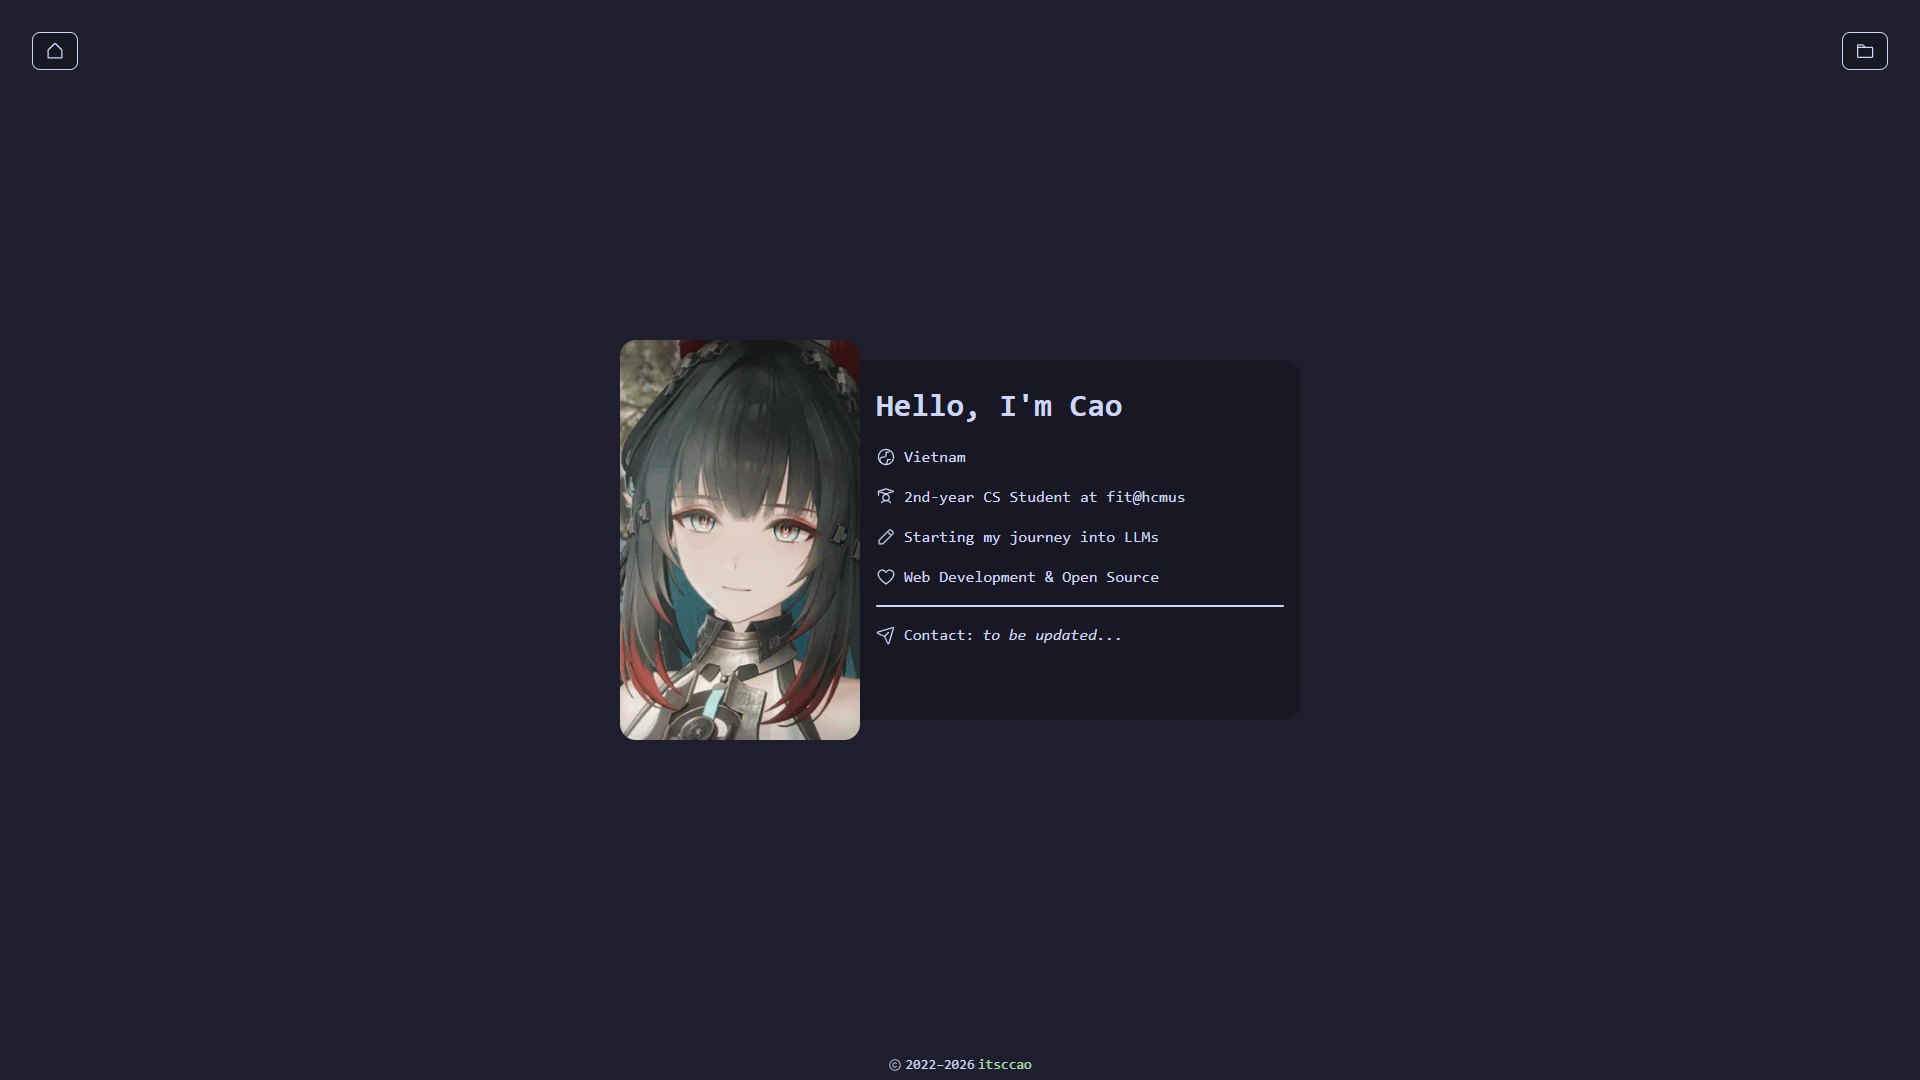
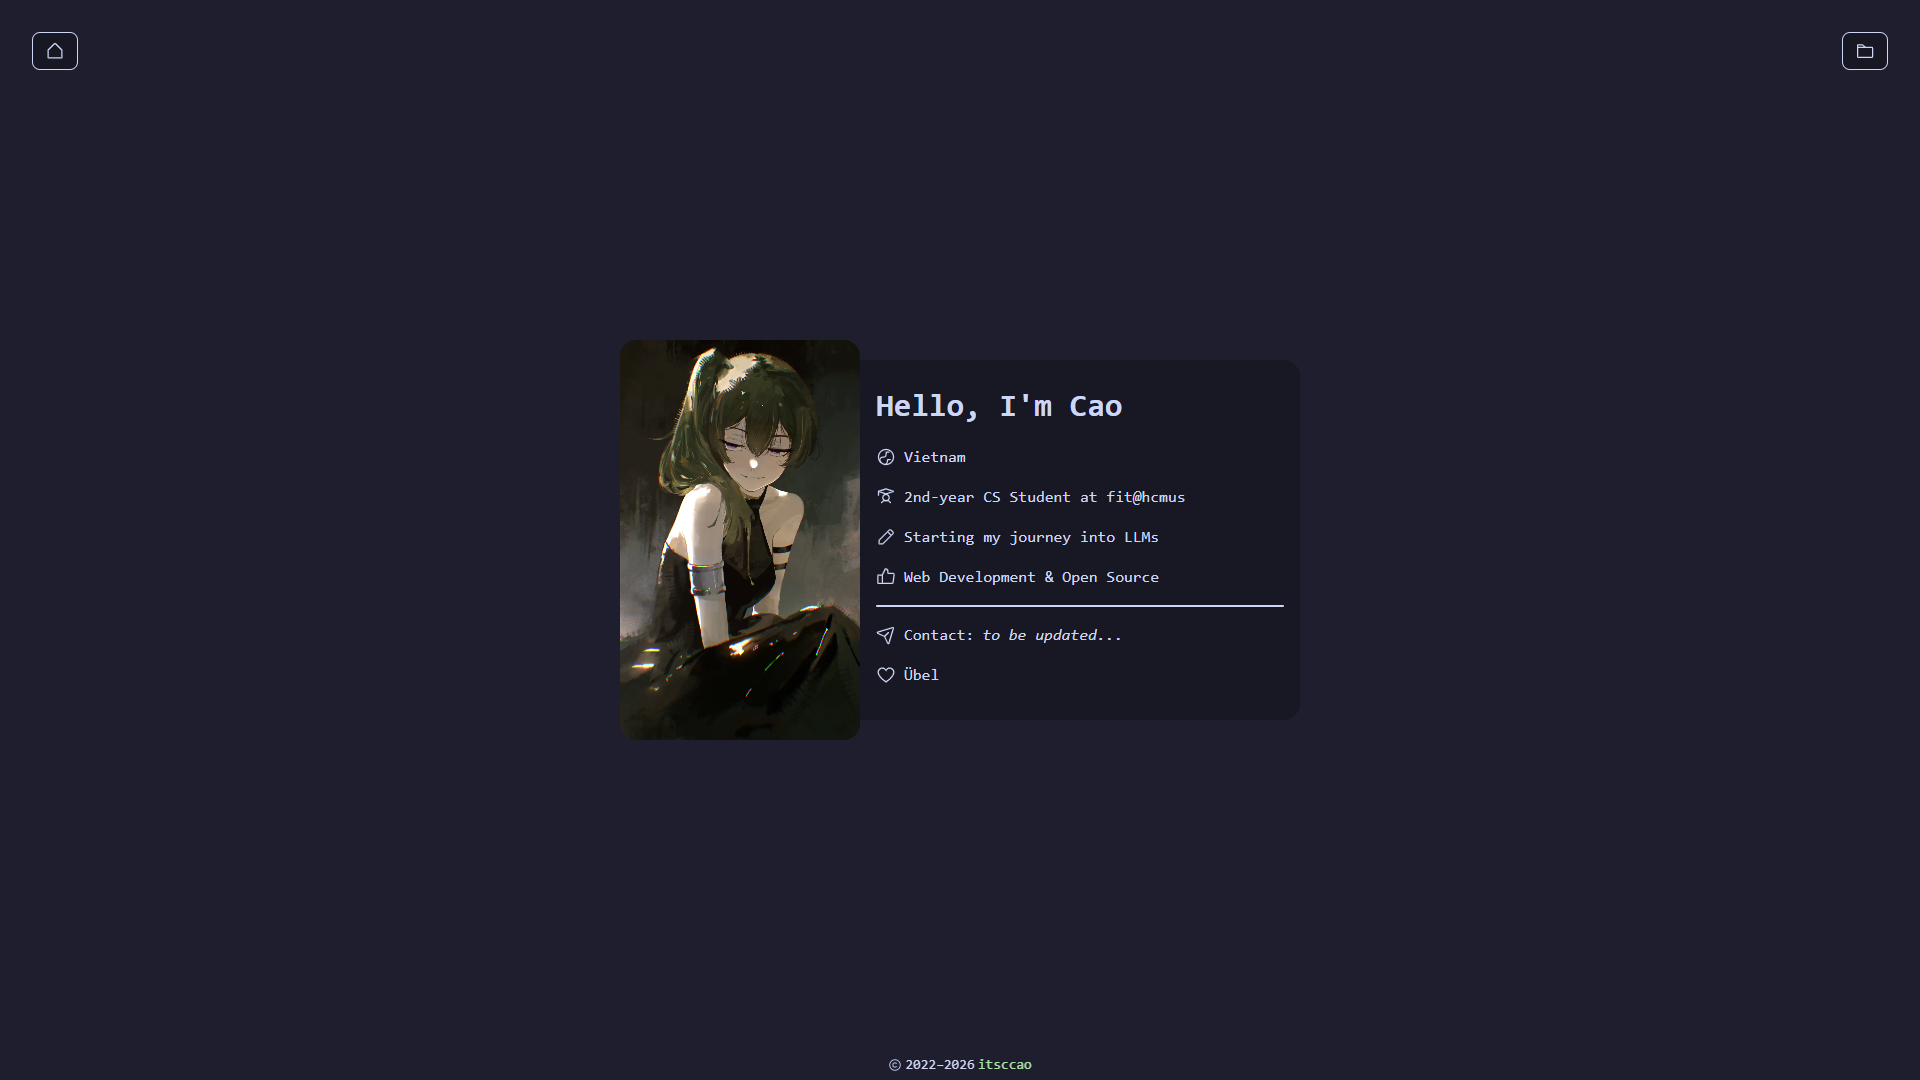
.

Changed region(s): [[0.3125, 0.3056, 0.5, 0.7028]]

diff --git a/public/index.html b/public/index.html
@@ -138,7 +138,8 @@
                     <p class="index-p"> 
                         <svg xmlns="http://www.w3.org/2000/svg" viewBox="0 0 256 256" width="20" height="20">
                             <rect width="256" height="256" fill="none"/>
-                            <path d="M128,216S28,160,28,92A52,52,0,0,1,128,72a52,52,0,0,1,100,20C228,160,128,216,128,216Z" fill="none" stroke="currentColor" stroke-linecap="round" stroke-linejoin="round" stroke-width="16"/>
+                            <path d="M32,104H80a0,0,0,0,1,0,0V208a0,0,0,0,1,0,0H32a8,8,0,0,1-8-8V112A8,8,0,0,1,32,104Z" fill="none" stroke="currentColor" stroke-linecap="round" stroke-linejoin="round" stroke-width="16"/>
+                            <path d="M80,104l40-80a32,32,0,0,1,32,32V80h64a16,16,0,0,1,15.87,18l-12,96A16,16,0,0,1,204,208H80" fill="none" stroke="currentColor" stroke-linecap="round" stroke-linejoin="round" stroke-width="16"/>
                         </svg>
                         Web Development & Open Source
                     </p>
@@ -151,6 +152,13 @@
                             <path d="M223.69,42.18a8,8,0,0,0-9.87-9.87l-192,58.22a8,8,0,0,0-1.25,14.93L108,148l42.54,87.42a8,8,0,0,0,14.93-1.25Z" fill="none" stroke="currentColor" stroke-linecap="round" stroke-linejoin="round" stroke-width="16"/>
                         </svg>
                         Contact: <i>to be updated...</i>
+                    </p>
+                    <p class="index-p">
+                        <svg xmlns="http://www.w3.org/2000/svg" viewBox="0 0 256 256" width="20" height="20">
+                            <rect width="256" height="256" fill="none"/>
+                            <path d="M128,216S28,160,28,92A52,52,0,0,1,128,72a52,52,0,0,1,100,20C228,160,128,216,128,216Z" fill="none" stroke="currentColor" stroke-linecap="round" stroke-linejoin="round" stroke-width="16"/>
+                        </svg>
+                        Übel
                     </p>
                 </div>
             </div>

diff --git a/themes/july/layouts/index.html b/themes/july/layouts/index.html
@@ -49,7 +49,8 @@
                     <p class="index-p"> 
                         <svg xmlns="http://www.w3.org/2000/svg" viewBox="0 0 256 256" width="20" height="20">
                             <rect width="256" height="256" fill="none"/>
-                            <path d="M128,216S28,160,28,92A52,52,0,0,1,128,72a52,52,0,0,1,100,20C228,160,128,216,128,216Z" fill="none" stroke="currentColor" stroke-linecap="round" stroke-linejoin="round" stroke-width="16"/>
+                            <path d="M32,104H80a0,0,0,0,1,0,0V208a0,0,0,0,1,0,0H32a8,8,0,0,1-8-8V112A8,8,0,0,1,32,104Z" fill="none" stroke="currentColor" stroke-linecap="round" stroke-linejoin="round" stroke-width="16"/>
+                            <path d="M80,104l40-80a32,32,0,0,1,32,32V80h64a16,16,0,0,1,15.87,18l-12,96A16,16,0,0,1,204,208H80" fill="none" stroke="currentColor" stroke-linecap="round" stroke-linejoin="round" stroke-width="16"/>
                         </svg>
                         Web Development & Open Source
                     </p>
@@ -62,6 +63,13 @@
                             <path d="M223.69,42.18a8,8,0,0,0-9.87-9.87l-192,58.22a8,8,0,0,0-1.25,14.93L108,148l42.54,87.42a8,8,0,0,0,14.93-1.25Z" fill="none" stroke="currentColor" stroke-linecap="round" stroke-linejoin="round" stroke-width="16"/>
                         </svg>
                         Contact: <i>to be updated...</i>
+                    </p>
+                    <p class="index-p">
+                        <svg xmlns="http://www.w3.org/2000/svg" viewBox="0 0 256 256" width="20" height="20">
+                            <rect width="256" height="256" fill="none"/>
+                            <path d="M128,216S28,160,28,92A52,52,0,0,1,128,72a52,52,0,0,1,100,20C228,160,128,216,128,216Z" fill="none" stroke="currentColor" stroke-linecap="round" stroke-linejoin="round" stroke-width="16"/>
+                        </svg>
+                        Übel
                     </p>
                 </div>
             </div>

diff --git a/README.md b/README.md
@@ -12,10 +12,9 @@ A clean, minimalist developer portfolio. Meticulously hand-crafted with a custom
 
 | Asset Type | Source |
 | :--- | :--- |
-| **Font** | [Outfit](https://fonts.google.com/specimen/Outfit?preview.script=Latn) |
+| **Font** | [Outfit](https://fonts.google.com/specimen/Outfit) |
 | **Icons** | [Phosphor Icons](https://phosphoricons.com/) |
-| **Animated Card** | [Tenor (Arknights Endfield)](https://tenor.com/view/arknights-arknights-endfield-endfield-zhuang-zhuang-fangyi-gif-11209153234230017995) |
-| **Favicon** | [Seseren (pixiv)](https://www.pixiv.net/en/artworks/143747121) |
+| **Card & Favicon** | [doremy (pixiv)](https://www.pixiv.net/en/artworks/144871632) |
 
 ---
 
